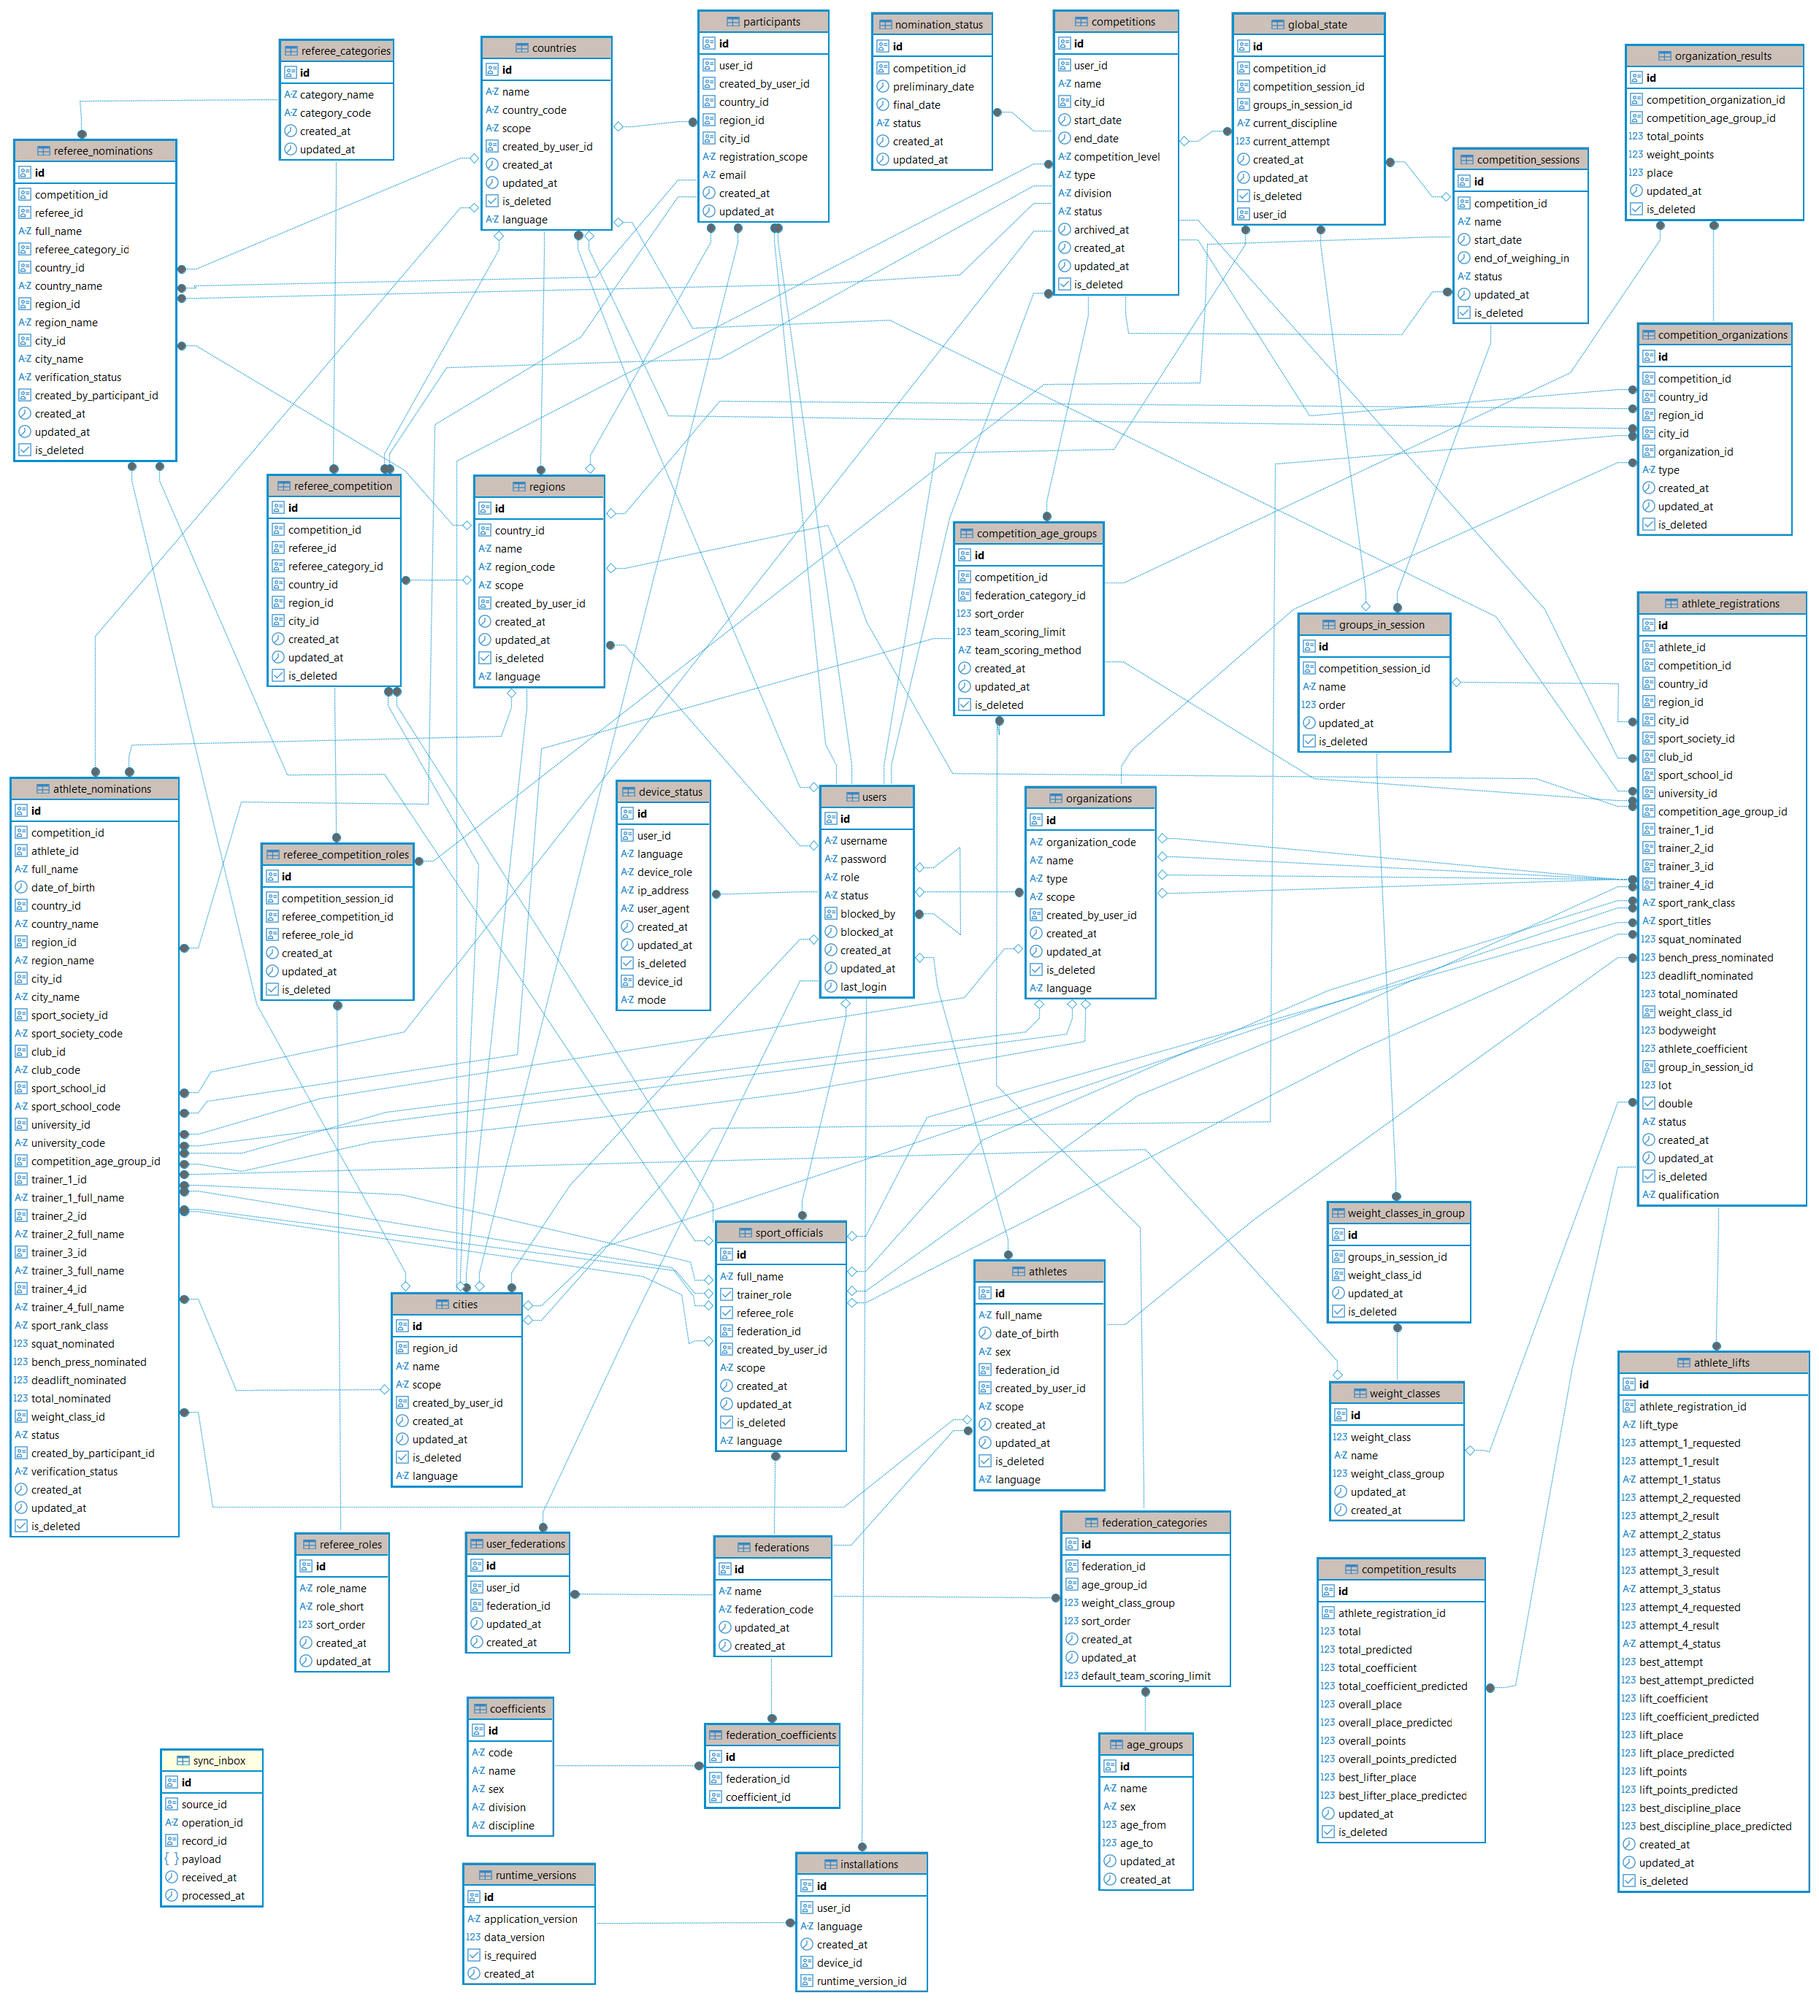
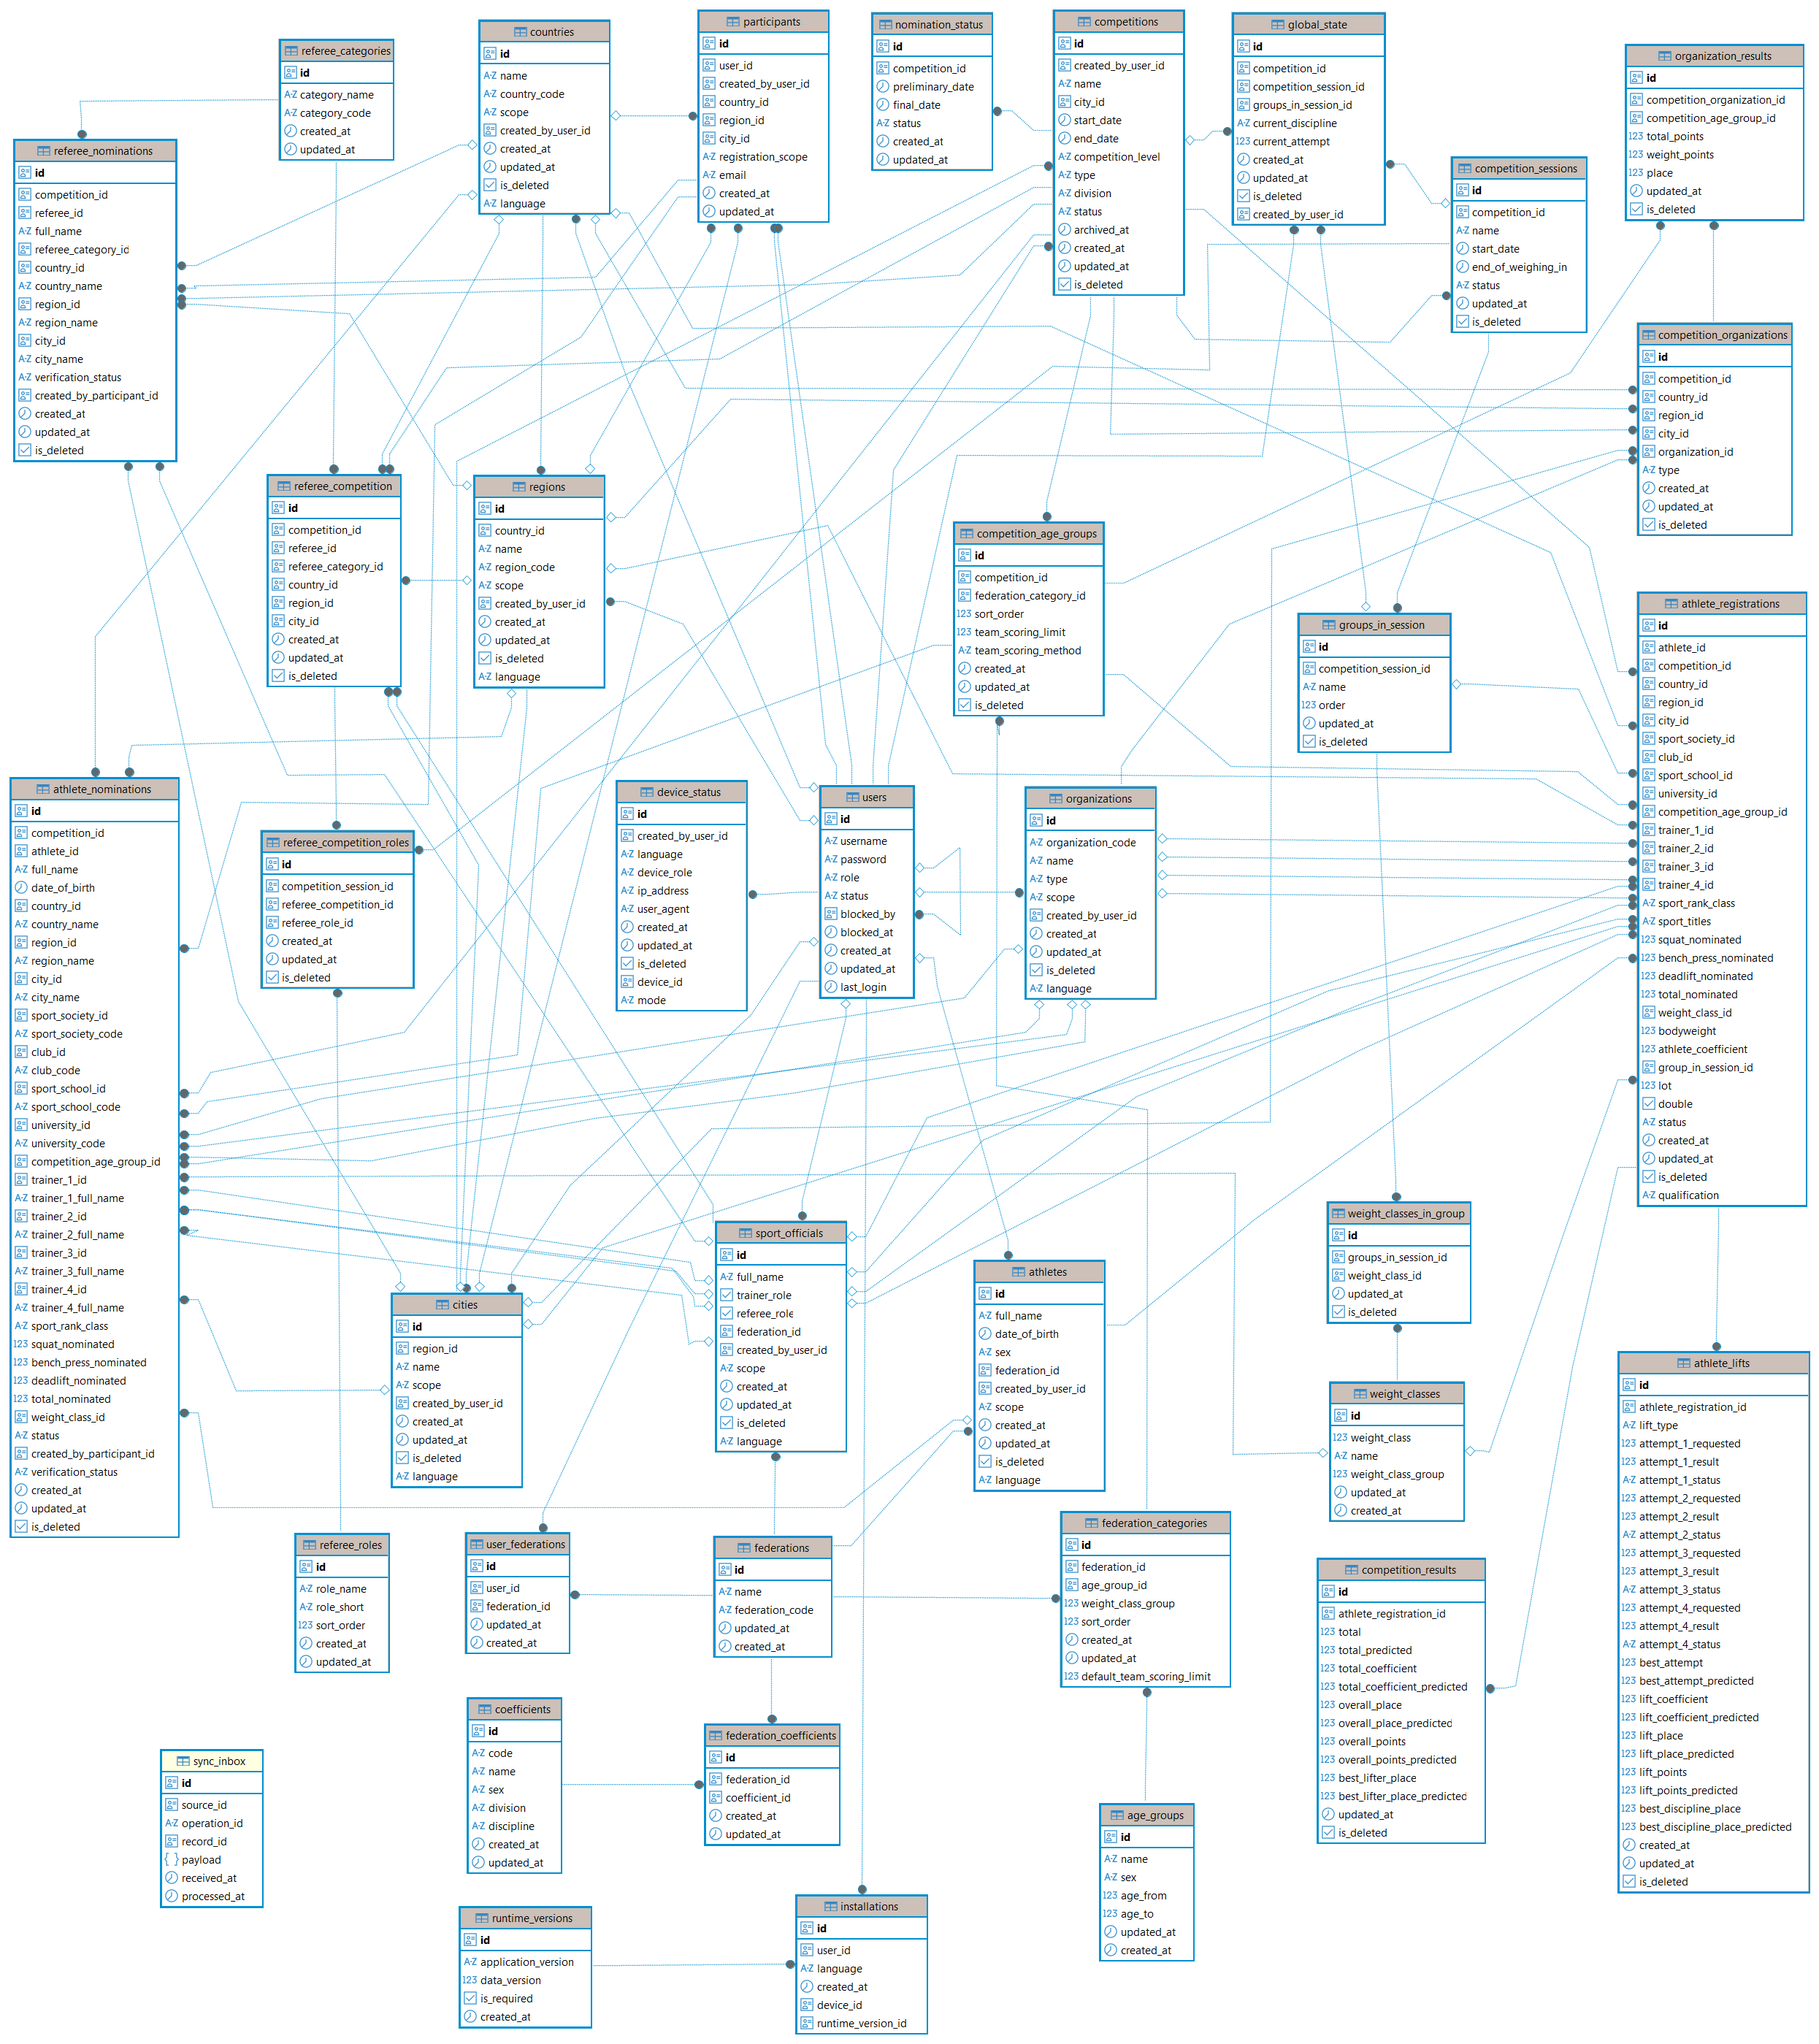
db

diff --git a/backend/api/src/modules/sync/sync.service.ts b/backend/api/src/modules/sync/sync.service.ts
@@ -5,12 +5,14 @@ import { SyncChange } from './dto/sync-change.dto';
 
 import { 
     STATIC_REFERENCE_TABLES, 
-    REFERENCE_TABLES, 
+    ADMIN_REFERENCE_TABLES, 
     USER_REFERENCE_TABLES, 
     USER_REFERENCE_FEDERATIONS, 
     COMPETITION_TABLES, 
-    SESSION_TABLES, 
-    GROUP_TABLES, 
+    COMPETITION_SESSION_TABLES, 
+    COMPETITION_GROUP_TABLES, 
+    CREATED_BY_USER_TABLES, 
+    COMPETITION_RUNTIME_TABLES, 
     USER_TABLES, 
 } from '#shared-sql';
 
@@ -76,8 +78,7 @@ export class SyncService {
             data[table] = result as any[];
         }
 
-
-        for (const table of REFERENCE_TABLES) {
+        for (const table of ADMIN_REFERENCE_TABLES) {
 
             const result = await this.prisma.$queryRawUnsafe(
                 `
@@ -155,7 +156,7 @@ export class SyncService {
                 FROM "${table}" t
                 INNER JOIN competitions c
                     ON c.id = t.competition_id
-                WHERE c.user_id = $1
+                WHERE c.created_by_user_id = $1
                 `,
                 userId,
             );
@@ -163,7 +164,7 @@ export class SyncService {
             data[table] = result as any[];
         }
 
-        for (const table of SESSION_TABLES) {
+        for (const table of COMPETITION_SESSION_TABLES) {
 
             const result = await this.prisma.$queryRawUnsafe(
                 `
@@ -173,7 +174,7 @@ export class SyncService {
                     ON cs.id = t.competition_session_id
                 INNER JOIN competitions c
                     ON c.id = cs.competition_id
-                WHERE c.user_id = $1
+                WHERE c.created_by_user_id = $1
                 `,
                 userId,
             );
@@ -181,7 +182,7 @@ export class SyncService {
             data[table] = result as any[];
         }
 
-        for (const table of GROUP_TABLES) {
+        for (const table of COMPETITION_GROUP_TABLES) {
 
             const result = await this.prisma.$queryRawUnsafe(
                 `
@@ -193,7 +194,7 @@ export class SyncService {
                     ON cs.id = gis.competition_session_id
                 INNER JOIN competitions c
                     ON c.id = cs.competition_id
-                WHERE c.user_id = $1
+                WHERE c.created_by_user_id = $1
                 `,
                 userId,
             );
@@ -202,6 +203,41 @@ export class SyncService {
         }
 
         data['users'] = [{ id: userId }];
+
+        for (const table of CREATED_BY_USER_TABLES) {
+
+            const result = await this.prisma.$queryRawUnsafe(
+                `
+                SELECT *
+                FROM "${table}"
+                WHERE
+                    created_by_user_id = $1
+                `,
+                userId,
+            );
+
+            data[table] = result as any[];
+        }
+
+        for (const table of COMPETITION_RUNTIME_TABLES) {
+
+            const result = await this.prisma.$queryRawUnsafe(
+                `
+                SELECT t.*
+                FROM "${table}" t
+                INNER JOIN athlete_registrations ar
+                    ON ar.id = t.athlete_registration_id
+                INNER JOIN competitions c
+                    ON c.id = ar.competition_id
+                WHERE c.created_by_user_id = $1
+                `,
+                userId,
+            );
+
+            data[table] = result as any[];
+        }
+
+
 
 
 

diff --git a/backend/api/src/modules/connections/connections.service.ts b/backend/api/src/modules/connections/connections.service.ts
@@ -45,7 +45,7 @@ export class ConnectionsService {
 
     const currentDevice = await this.prisma.deviceStatus.findFirst({
       where: {
-        user_id: userId,
+        created_by_user_id: userId,
         device_id: dto.device_id,
         device_role: 'ADMIN',
         is_deleted: false,
@@ -68,7 +68,7 @@ export class ConnectionsService {
 
     const currentClient = await this.prisma.deviceStatus.findFirst({
         where: {
-          user_id: userId,
+          created_by_user_id: userId,
           device_id: dto.device_id,
           is_deleted: false,
         },
@@ -86,7 +86,7 @@ export class ConnectionsService {
 
       await this.prisma.deviceStatus.create({
         data: {
-          user_id: userId,
+          created_by_user_id: userId,
           device_id: dto.device_id,
           language: dto.language,
           mode: 'LAN',
@@ -116,7 +116,7 @@ export class ConnectionsService {
 
     const currentDevice = await this.prisma.deviceStatus.findFirst({
         where: {
-          user_id: userId,
+          created_by_user_id: userId,
           device_id: dto.device_id,
           is_deleted: false,
         },
@@ -132,7 +132,7 @@ export class ConnectionsService {
 
       const admin = await this.prisma.deviceStatus.findFirst({
         where: {
-          user_id: userId,
+          created_by_user_id: userId,
           device_role: 'ADMIN',
           is_deleted: false,
         },
@@ -156,7 +156,7 @@ export class ConnectionsService {
 
     const admin = await this.prisma.deviceStatus.findFirst({
       where: {
-        user_id: userId,
+        created_by_user_id: userId,
         device_role: 'ADMIN',
         is_deleted: false,
       },
@@ -172,7 +172,7 @@ export class ConnectionsService {
 
       await this.prisma.deviceStatus.create({
         data: {
-          user_id: userId,
+          created_by_user_id: userId,
           device_id: dto.device_id,
           language: dto.language,
           mode: 'ONLINE',
@@ -196,7 +196,7 @@ export class ConnectionsService {
 
     await this.prisma.deviceStatus.create({
       data: {
-        user_id: userId,
+        created_by_user_id: userId,
         device_id: dto.device_id,
         language: dto.language,
         mode: 'ONLINE',
@@ -224,7 +224,7 @@ export class ConnectionsService {
 
     const records = await this.prisma.deviceStatus.findMany({
       where: {
-        user_id: userId,
+        created_by_user_id: userId,
         device_role: {
           not: 'ADMIN',
         },
@@ -251,7 +251,7 @@ export class ConnectionsService {
 
     return this.prisma.deviceStatus.findMany({
       where: {
-        user_id: userId,
+        created_by_user_id: userId,
         device_id: {
           not: current_device_id,
         },

diff --git a/shared-sql/sync.config.ts b/shared-sql/sync.config.ts
@@ -9,7 +9,7 @@ export const STATIC_REFERENCE_TABLES = [
     'referee_roles',
 ];
 
-export const REFERENCE_TABLES = [
+export const ADMIN_REFERENCE_TABLES = [
     'user_federations',
 ];
 
@@ -31,14 +31,17 @@ export const COMPETITION_TABLES = [
     'competition_sessions', 
     'referee_competition', 
     'referee_nominations', 
+    'athlete_registrations', 
+    'athlete_nominations', 
+    'competition_organizations', 
 ];
 
-export const SESSION_TABLES = [
+export const COMPETITION_SESSION_TABLES = [
     'groups_in_session', 
     'referee_competition_roles',
 ];
 
-export const GROUP_TABLES = [
+export const COMPETITION_GROUP_TABLES = [
     'weight_classes_in_group',
 ];
 
@@ -46,25 +49,26 @@ export const TABLE_USERS = [
     'users'
 ];
 
+export const CREATED_BY_USER_TABLES = [
+    'participants',
+    'competitions',
+    'device_status',
+    'global_state',
+];
+
+export const COMPETITION_RUNTIME_TABLES = [
+    'athlete_lifts', 
+    'competition_results',
+];
 
 
 export const USER_TABLES = [
-    
-    
+
     
 
 
+
     
-    'participants',
-    'competitions',
-    
-    'athlete_registrations',
-    'competition_organizations',
-    'athlete_lifts',
-    'competition_results',
     'organization_results',
-    'device_status',
-    'global_state',
     
-    'athlete_nominations',
 ];

diff --git a/runtime/src/app/sync/services/sync.service.ts b/runtime/src/app/sync/services/sync.service.ts
@@ -5,13 +5,15 @@ import { firstValueFrom } from 'rxjs';
 
 import { 
   STATIC_REFERENCE_TABLES, 
-  REFERENCE_TABLES, 
+  ADMIN_REFERENCE_TABLES, 
   USER_REFERENCE_TABLES, 
   USER_REFERENCE_FEDERATIONS, 
   COMPETITION_TABLES, 
-  SESSION_TABLES, 
-  GROUP_TABLES, 
+  COMPETITION_SESSION_TABLES, 
+  COMPETITION_GROUP_TABLES, 
   TABLE_USERS, 
+  CREATED_BY_USER_TABLES, 
+  COMPETITION_RUNTIME_TABLES, 
   USER_TABLES,  
 } from '#shared-sql';
 
@@ -28,13 +30,15 @@ export class SyncService {
 
   private tables = [
     ...STATIC_REFERENCE_TABLES, 
-    ...REFERENCE_TABLES, 
+    ...ADMIN_REFERENCE_TABLES, 
     ...USER_REFERENCE_TABLES, 
     ...USER_REFERENCE_FEDERATIONS, 
     ...COMPETITION_TABLES, 
-    ...SESSION_TABLES, 
-    ...GROUP_TABLES, 
+    ...COMPETITION_SESSION_TABLES, 
+    ...COMPETITION_GROUP_TABLES, 
     ...TABLE_USERS, 
+    ...CREATED_BY_USER_TABLES, 
+    ...COMPETITION_RUNTIME_TABLES, 
     ...USER_TABLES, 
   ];
 

diff --git a/shared-sql/index.ts b/shared-sql/index.ts
@@ -1,23 +1,27 @@
 import { 
     STATIC_REFERENCE_TABLES, 
-    REFERENCE_TABLES, 
+    ADMIN_REFERENCE_TABLES, 
     USER_REFERENCE_TABLES, 
     USER_REFERENCE_FEDERATIONS, 
     COMPETITION_TABLES, 
-    SESSION_TABLES, 
-    GROUP_TABLES, 
+    COMPETITION_SESSION_TABLES, 
+    COMPETITION_GROUP_TABLES, 
     TABLE_USERS, 
+    CREATED_BY_USER_TABLES, 
+    COMPETITION_RUNTIME_TABLES, 
     USER_TABLES, 
 } from './sync.config.js';
 
 export { 
     STATIC_REFERENCE_TABLES,
-    REFERENCE_TABLES,  
+    ADMIN_REFERENCE_TABLES,  
     USER_REFERENCE_TABLES, 
     USER_REFERENCE_FEDERATIONS, 
     COMPETITION_TABLES, 
-    SESSION_TABLES, 
-    GROUP_TABLES, 
+    COMPETITION_SESSION_TABLES, 
+    COMPETITION_GROUP_TABLES, 
     TABLE_USERS, 
+    CREATED_BY_USER_TABLES, 
+    COMPETITION_RUNTIME_TABLES, 
     USER_TABLES, 
 };
